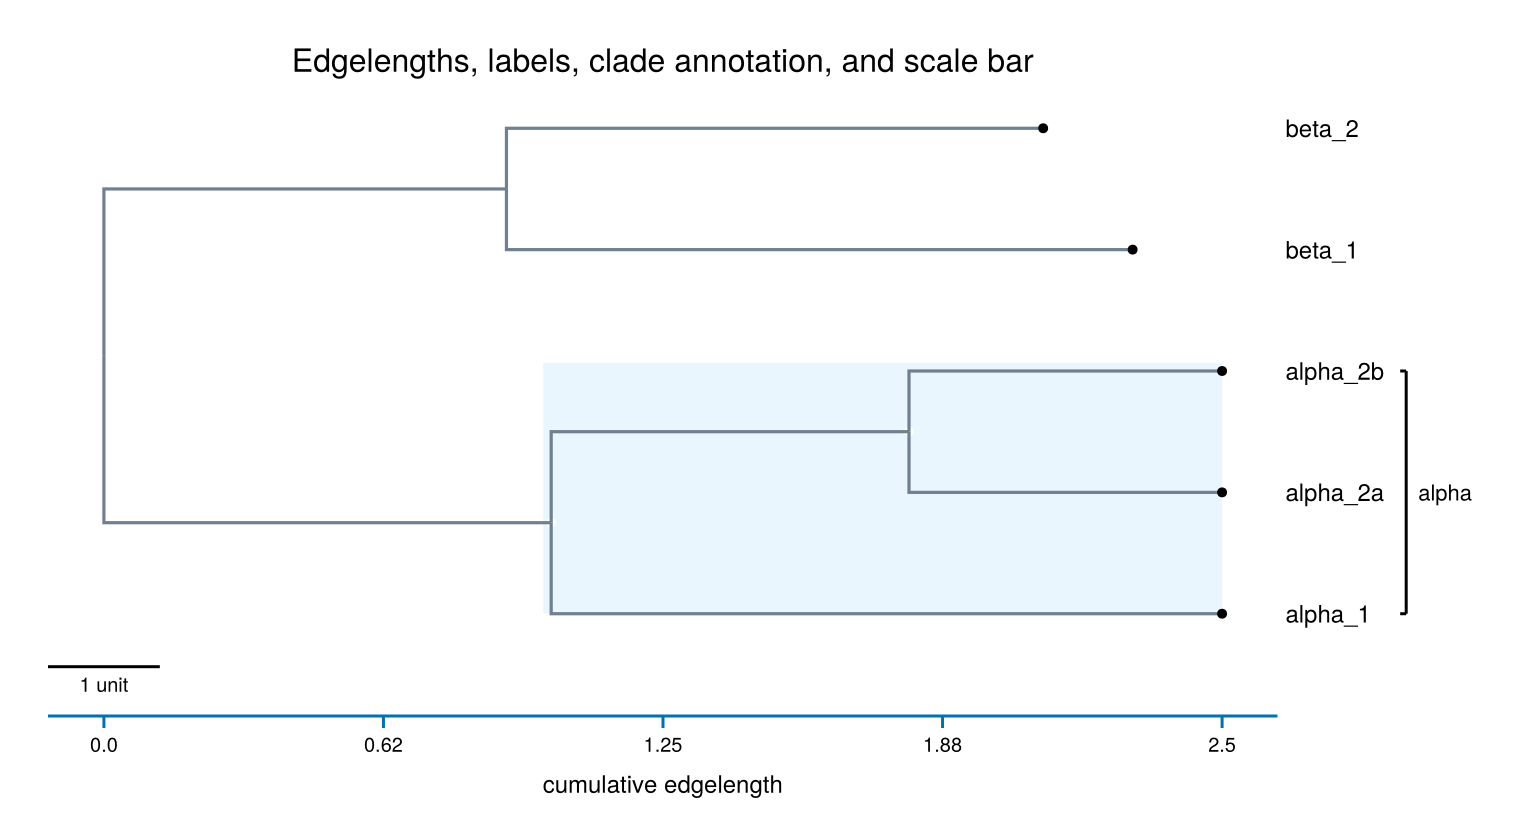
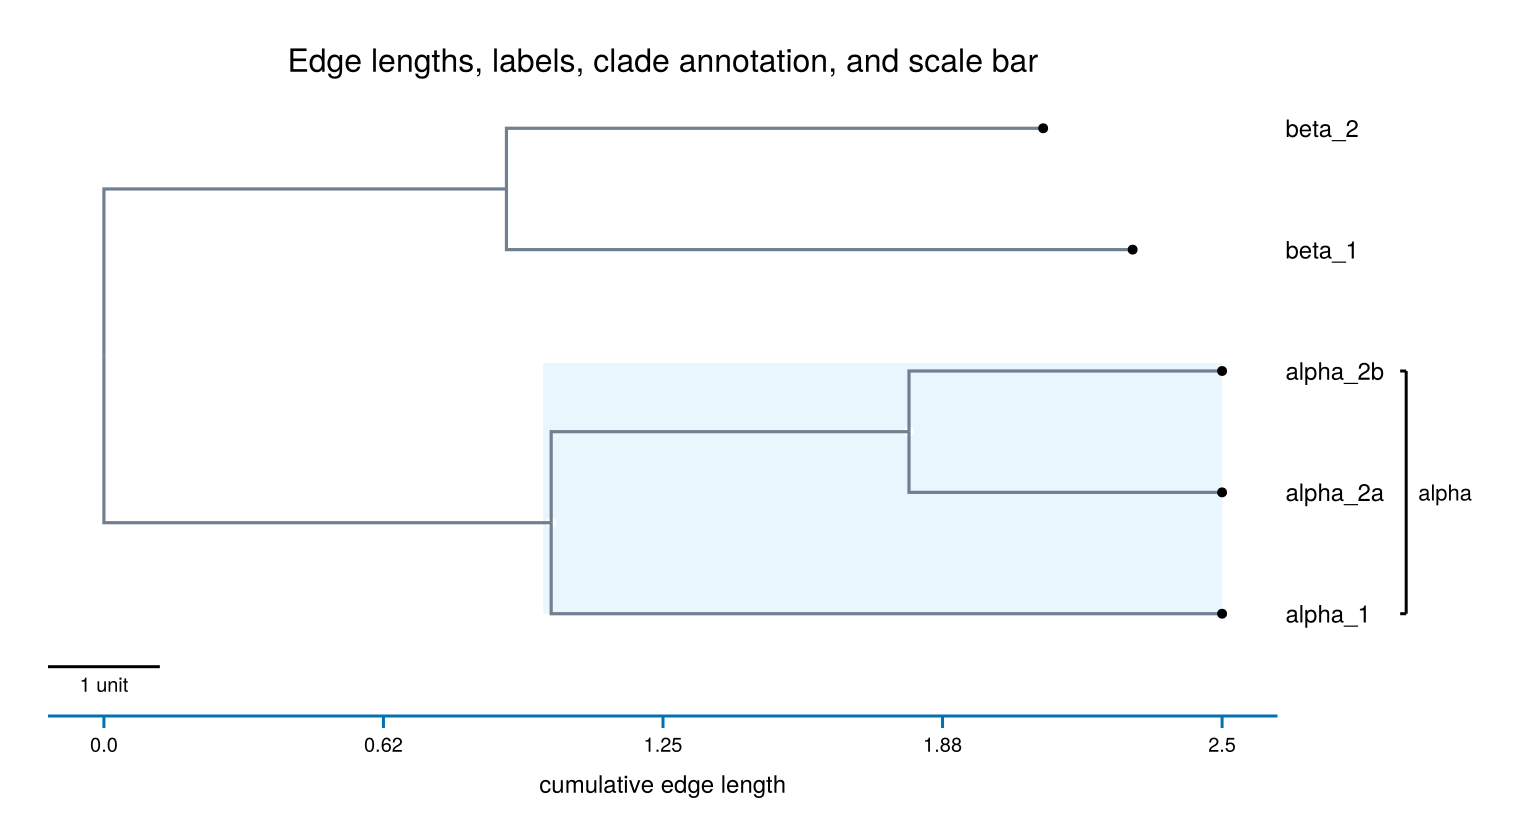
Update README language

Changed region(s): [[0.1855, 0.0619, 0.6803, 0.0929], [0.3401, 0.9286, 0.5257, 0.9595]]

diff --git a/README.md b/README.md
@@ -5,15 +5,20 @@
 [![Build Status](https://github.com/jeetsukumaran/LineagesMakie.jl/actions/workflows/CI.yml/badge.svg?branch=main)](https://github.com/jeetsukumaran/LineagesMakie.jl/actions/workflows/CI.yml?query=branch%3Amain)
 [![Aqua](https://raw.githubusercontent.com/JuliaTesting/Aqua.jl/master/badge.svg)](https://github.com/JuliaTesting/Aqua.jl)
 
-LineagesMakie.jl provides Makie-native plotting for lineage graphs in Julia.
-It accepts ordinary Julia objects through a small accessor interface, or any
-object that implements the AbstractTrees.jl `children` interface. It does not
-require a package-specific tree type, an R bridge, or a web service.
+LineagesMakie.jl draws lineage graphs with Makie. In this package, a
+lineage graph means a rooted branching history or hierarchy, such as a
+phylogenetic tree, coalescent genealogy, cladogram, or any custom object graph
+where each node can report its child nodes.
 
-Use LineagesMakie.jl when you want to draw rooted branching structures with
-Makie composition: clade graph layouts, edgelength-proportional layouts,
-radial layouts, labels, clade annotations, scale bars, `LineageAxis`
-decorations, and Observable-backed updates.
+LineagesMakie.jl accepts ordinary Julia objects through a small accessor
+interface, or any object that implements the AbstractTrees.jl `children`
+interface. It does not require a package-specific tree type, an R bridge, or a
+web service.
+
+Use LineagesMakie.jl when you want Makie composition for rooted branching
+structures: structure-only layouts, edge-length-proportional layouts, radial
+layouts, labels, clade annotations, scale bars, `LineageAxis` decorations, and
+Observable-backed updates.
 
 Full reference documentation lives in the [stable docs](https://jeetsukumaran.github.io/LineagesMakie.jl/stable/)
 and [development docs](https://jeetsukumaran.github.io/LineagesMakie.jl/dev/).
@@ -51,9 +56,14 @@ Pkg.develop(path = ".")
 
 ## Quick start
 
-The only required input is a rootnode and a callable `children(node)` accessor.
-When no `edgelength` accessor is supplied, LineagesMakie.jl defaults to
-`lineageunits = :nodeheights`, which gives a leaf-aligned clade graph layout.
+Start with a root node and a function that returns each node's children. In the
+example below, the code names the root node `rootnode` to follow package
+identifier conventions. The package receives that object through
+`lineageplot(rootnode, accessor)` and
+uses `children = node -> node.children` to traverse the graph.
+
+This first example does not supply edge lengths, so LineagesMakie.jl uses a
+default layout that aligns the leaves.
 
 The following example is available as
 [`examples/readme_quickstart.jl`](examples/readme_quickstart.jl).
@@ -72,7 +82,7 @@ leaf(name, edgelength) = Node(name, edgelength, Node[])
 node(name, edgelength, children::Node...) = Node(name, edgelength, Node[children...])
 
 rootnode = node(
-    "rootnode",
+    "root",
     0.0,
     node("alpha", 0.0, leaf("alpha_1", 0.0), leaf("alpha_2", 0.0)),
     node("beta", 0.0, leaf("beta_1", 0.0), leaf("beta_2", 0.0)),
@@ -84,7 +94,7 @@ plot_result = lineageplot(
     rootnode,
     accessor;
     figure = (; size = (640, 360)),
-    axis = (; title = "Default clade graph layout"),
+    axis = (; title = "Default leaf-aligned layout"),
     leaf_label_func = node -> node.name,
     node_color = :white,
     node_strokecolor = :gray35,
@@ -96,13 +106,13 @@ fig, lax, lp = plot_result
 save("readme_quickstart.png", fig)
 ```
 
-![Default clade graph layout](examples/readme_quickstart.png)
+![Default leaf-aligned layout](examples/readme_quickstart.png)
 
-## Edgelengths and annotations
+## Edge lengths and annotations
 
-Add an `edgelength(src, dst)` accessor when horizontal distance should reflect
-process-coordinate distance. The example below also shows leaf labels, clade
-highlighting, a clade bracket label, a quantitative x-axis, and a scale bar.
+Add the `edgelength(src, dst)` accessor when horizontal distance should reflect
+edge length. The same example also shows leaf labels, clade highlighting, a
+clade bracket label, a quantitative x-axis, and a scale bar.
 
 The full script is available as
 [`examples/readme_features.jl`](examples/readme_features.jl).
@@ -127,7 +137,7 @@ alpha = node(
     node("alpha_2", 0.8, leaf("alpha_2a", 0.7), leaf("alpha_2b", 0.7)),
 )
 beta = node("beta", 0.9, leaf("beta_1", 1.4), leaf("beta_2", 1.2))
-rootnode = node("rootnode", 0.0, alpha, beta)
+rootnode = node("root", 0.0, alpha, beta)
 
 accessor = lineagegraph_accessor(
     rootnode;
@@ -142,9 +152,9 @@ plot_result = lineageplot(
     lineageunits = :edgelengths,
     figure = (; size = (760, 420)),
     axis = (;
-        title = "Edgelengths, labels, clade annotation, and scale bar",
+        title = "Edge lengths, labels, clade annotation, and scale bar",
         show_x_axis = true,
-        xlabel = "cumulative edgelength",
+        xlabel = "cumulative edge length",
     ),
     edge_color = :slategray,
     edge_linewidth = 1.6,
@@ -163,20 +173,20 @@ fig, lax, lp = plot_result
 save("readme_features.png", fig)
 ```
 
-![Edgelengths, labels, clade annotation, and scale bar](examples/readme_features.png)
+![Edge lengths, labels, clade annotation, and scale bar](examples/readme_features.png)
 
 ## Input contract
 
 LineagesMakie.jl uses `LineageGraphAccessor` as its input boundary. The
 accessor stores callables that describe how to traverse and query your
-lineage graph.
+lineage graph. The left column lists exact API names.
 
 | Accessor | Required | Meaning |
 |---|---:|---|
 | `children(node)` | Yes | Return zero or more child nodes. A node with no children is a leaf. |
-| `edgelength(src, dst)` | No | Return the edgelength from source node `src` to destination node `dst`. |
-| `nodevalue(node)` | No | Return per-node data used by labels or mappings. |
-| `branchingtime(node)` | No | Return a precomputed rootnode-relative process coordinate. |
+| `edgelength(src, dst)` | No | Return the edge length from source node `src` to destination node `dst`. |
+| `nodevalue(node)` | No | Return a node value used by labels or mappings. |
+| `branchingtime(node)` | No | Return a precomputed coordinate measured from the root node. |
 | `coalescenceage(node)` | No | Return a precomputed leaf-relative process coordinate. |
 | `nodecoordinates(node)` | No | Return a user-supplied data-space `Point2f`. |
 | `nodepos(node)` | No | Return a user-supplied pixel-space `Point2f`. |
@@ -226,7 +236,7 @@ Use `lineageplot!` when you already own the plotting context:
 
 ```julia
 fig = Figure()
-lax = LineageAxis(fig[1, 1]; show_x_axis = true, xlabel = "edgelength")
+lax = LineageAxis(fig[1, 1]; show_x_axis = true, xlabel = "edge length")
 lp = lineageplot!(lax, rootnode, accessor; lineageunits = :edgelengths)
 ```
 
@@ -246,20 +256,21 @@ geom = lp[:computed_geom][]
 lineageunits = lp[:resolved_lineageunits][]
 ```
 
-## Lineageunits
+## Process coordinates and lineageunits
 
-`lineageunits` selects how LineagesMakie.jl computes the process coordinate of
-each node. If `lineageunits` is omitted, the default is `:edgelengths` when an
-`edgelength` accessor exists, and `:nodeheights` otherwise.
+The `lineageunits` keyword selects how LineagesMakie.jl computes the process
+coordinate of each node. If you omit `lineageunits`, the default is
+`:edgelengths` when an edge length accessor exists, and `:nodeheights`
+otherwise.
 
 | `lineageunits` | Required accessor | Process coordinate | Axis polarity |
 |---|---|---|---|
-| `:edgelengths` | `edgelength` | Cumulative `edgelength(src, dst)` from `rootnode`. | `:forward` |
-| `:branchingtime` | `branchingtime` | Precomputed rootnode-relative coordinate. | `:forward` |
+| `:edgelengths` | `edgelength` | Cumulative edge length from the root node. | `:forward` |
+| `:branchingtime` | `branchingtime` | Precomputed coordinate measured from the root node. | `:forward` |
 | `:coalescenceage` | `coalescenceage` | Leaf-relative coordinate; leaves have value 0. | `:backward` |
-| `:nodedepths` | None | Edge count from `rootnode`. | `:forward` |
+| `:nodedepths` | None | Edge count from the root node. | `:forward` |
 | `:nodeheights` | None | Edge count to farthest descendant leaf; leaves have value 0. | `:backward` |
-| `:nodelevels` | None | Integer level from `rootnode`. | `:forward` |
+| `:nodelevels` | None | Integer level from the root node. | `:forward` |
 | `:nodecoordinates` | `nodecoordinates` | User-supplied data coordinates. | User-defined |
 | `:nodepos` | `nodepos` | User-supplied pixel coordinates. | User-defined |
 
@@ -277,8 +288,8 @@ node_positions = geom.node_positions
 The plotting contract has 4 related pieces:
 
 - `lineageunits` chooses the process coordinate for each node.
-- `axis_polarity` records whether the coordinate increases in the
-  rootnode-to-leaf direction or the leaf-to-root direction.
+- `axis_polarity` records whether the coordinate increases from the root node
+  toward the leaves or from the leaves toward the root node.
 - `display_polarity` controls whether increasing coordinates map to increasing
   screen position.
 - `lineage_orientation` chooses which screen axis carries the process
@@ -294,7 +305,7 @@ lax = LineageAxis(
     lineage_orientation = :top_to_bottom,
     show_y_axis = true,
     show_grid = true,
-    ylabel = "cumulative edgelength",
+    ylabel = "cumulative edge length",
 )
 lineageplot!(lax, rootnode, accessor; lineageunits = :edgelengths)
 ```
@@ -385,7 +396,7 @@ Manual layer composition uses public layer functions. Prefer `lineageplot` or
 
 ## Observable updates
 
-`rootnode` and plot attributes can be Observables. This follows standard Makie
+The root node and plot attributes can be Observables. This follows standard Makie
 reactivity.
 
 ```julia
@@ -404,7 +415,7 @@ lp.edge_color = :steelblue
 rootnode_observable[] = another_rootnode
 ```
 
-Use the same accessor contract for every rootnode value assigned to the
+Use the same accessor contract for every root node value assigned to the
 Observable.
 
 ## Examples

diff --git a/STYLE-vocabulary.md b/STYLE-vocabulary.md
@@ -26,6 +26,29 @@ not stop at the current document boundary.
 For the decision log and ratification history, see
 `.workflow-docs/log.20260418T2301--vocabulary.md`.
 
+## Reader-facing prose versus API names
+
+Controlled vocabulary distinguishes reader-facing prose from exact API names.
+Use conventional spaced English terms in explanatory prose when that improves
+clarity for readers outside the project. Use compact project spellings only
+when referring to code identifiers, keyword arguments, symbols, struct fields,
+or deliberate project terms.
+
+Examples:
+
+- Write "root node" in prose; write `rootnode` only for the exact positional
+  argument name or code identifier.
+- Write "edge length" in prose; write `edgelength` only for the exact accessor
+  keyword, callable name, or code identifier.
+- Write "node value" in prose; write `nodevalue` only for the exact accessor
+  keyword, callable name, or code identifier.
+- Introduce "lineage graph" with a short gloss in user-facing material before
+  relying on it as a project term.
+- Do not wrap ordinary prose terms in code font. Code font marks exact syntax.
+- Code examples in this repository are project-owned code and must follow the
+  canonical identifier forms. Use noncanonical identifiers only when showing a
+  real third-party library API or user-supplied external data structure.
+
 ## Entries
 
 ### `axis_polarity`
@@ -265,11 +288,11 @@ argument, type name, or symbol.
 
 ### `edgelength`
 
-**Part of speech:** noun / accessor name
+**Part of speech:** accessor name; prose form is "edge length"
 
 **Definition (as measure):** The scalar quantity associated with a directed
 edge. Represents evolutionary distance, time span, or any analogous
-non-negative quantity. Written as one word without underscore.
+non-negative quantity. In reader-facing prose, write "edge length".
 
 **Definition (as accessor):** The callable `edgelength(src, dst)`,
 which returns either:
@@ -277,11 +300,11 @@ which returns either:
 - a named tuple `(; value::Float64, units::Symbol)` with an explicit unit
   for conversion.
 
-When `edgelength` is not supplied, layout defaults to
+When the `edgelength` accessor is not supplied, layout defaults to
 `lineageunits = :nodeheights` (leaf-aligned clade graph plot).
 
-**Proscribed alternates:** `branch_length`, `edge_length` (underscored),
-`weight`, `len`, `w`.
+**Proscribed alternates (as project-owned identifiers):**
+`branch_length`, `edge_length` (underscored), `weight`, `len`, `w`.
 
 ---
 
@@ -320,7 +343,7 @@ Follows the `Graphs.jl` ecosystem convention.
 
 **Definition (tree-level):** The maximum `branchingtime` of any node in the
 tree, equivalently the `branchingtime` of the deepest leaf. For an ultrametric
-tree, equals the `coalescenceage` of the `rootnode`.
+tree, equals the `coalescenceage` of the root node.
 
 **Definition (per-node):** The path distance (number of edges, ignoring
 `edgelength` values) from a given node to its farthest descendant leaf. Used
@@ -546,15 +569,17 @@ process-coordinate values; `display_polarity` describes their screen direction.
 
 ### `rootnode`
 
-**Part of speech:** noun (role); positional argument name
+**Part of speech:** positional argument name; prose form is "root node"
 
 **Definition:** The unique node with no parent; the starting point of tree
 traversal. Passed as the first positional argument to `lineageplot`,
-`rectangular_layout`, `circular_layout`, and related functions. Written as one
-word without underscore.
+`rectangular_layout`, `circular_layout`, and related functions. In
+reader-facing prose, write "root node". Use `rootnode` only when referring to
+the exact API argument or identifier.
 
-**Proscribed alternates:** `root`, `rootvertex`, `root_node`, `root_vertex`,
-`seed`, `seed_node`, `source`, `origin`.
+**Proscribed alternates (as project-owned identifiers):**
+`root`, `rootvertex`, `root_node`, `root_vertex`, `seed`, `seed_node`,
+`source`, `origin`.
 
 ---
 
@@ -593,12 +618,13 @@ layout types. It does not appear as a code identifier.
 
 **Part of speech:** noun (structural concept)
 
-**Definition:** Any element of the graph: the `rootnode`, any internal
+**Definition:** Any element of the graph: the root node, any internal
 node, or any `leaf`. The generic term for a graph element. `nodes` is
 the plural. In compound role-specific names, use the role term directly
-(`leaf`, `rootnode`, `internal node` in prose) rather than repeating `node`
+(`leaf`, "root node", `internal node` in prose) rather than repeating `node`
 where the role already implies it.
-We, of course, accept the use of `vertex` (and lexemic variants when used in a graph theoretic mathematical context or third-party API's.
+The use of `vertex` and related forms is acceptable in graph-theoretic
+mathematical context or when quoting a third-party API.
 
 **Proscribed alternates (as a generic term):** `vertex`, `vertices`. The words
 `vertex` / `vertices` must not appear as generic synonyms for `node` in any
@@ -621,12 +647,13 @@ underscore (multi-word field name).
 
 ### `nodevalue`
 
-**Part of speech:** noun (accessor name)
+**Part of speech:** accessor name; prose form is "node value"
 
 **Definition:** The callable `nodevalue(node) -> Any` returning arbitrary
 per-node data: bootstrap support, posterior probability, taxon name, age, or
-any domain value. Used by label and color-mapping layers. Written as one word
-without underscore.
+any domain value. Used by label and color-mapping layers. In reader-facing
+prose, write "node value". Use `nodevalue` only when referring to the exact
+accessor keyword or callable name.
 
 **Proscribed alternates:** `vertexvalue`, `vertex_value`, `node_value`
 (underscored), `get_node_data`.
@@ -894,7 +921,8 @@ Multi-word field names on structs retain underscores: `node_positions`,
 The table below records this project's canonical identifier forms for each
 domain concept, governed jointly by STYLE-julia.md §2.4 (identifier form rules)
 and this document (lexeme choices). All proscribed forms in the right column
-must not appear in any identifier, field name, keyword, type name, or symbol.
+must not appear in project-owned identifiers, field names, keywords, type
+names, or symbols, including code examples.
 
 | Concept | Canonical form | Type-param form | Proscribed short forms |
 |---|---|---|---|
